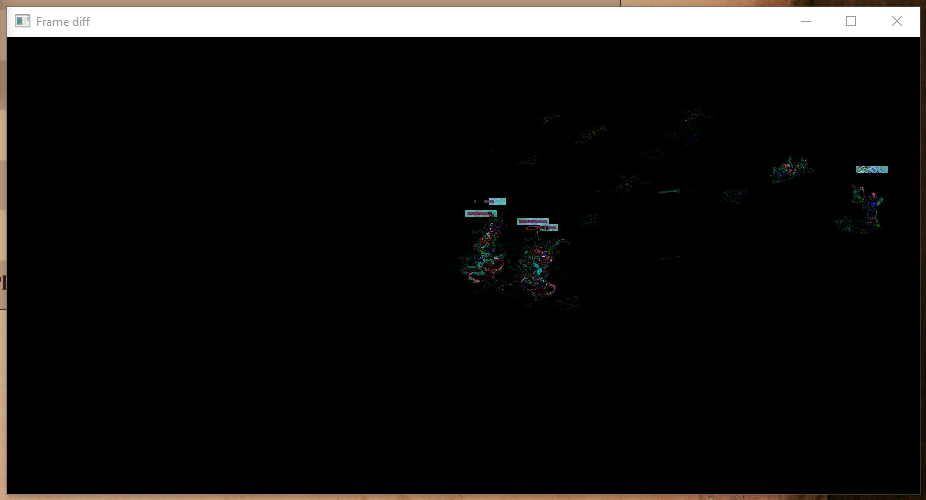
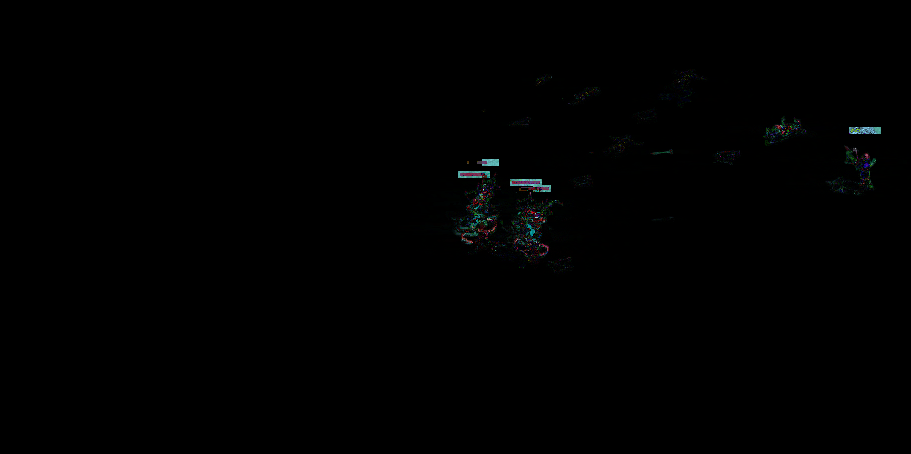
Updated images

diff --git a/_projects/3_project.md b/_projects/3_project.md
@@ -48,7 +48,7 @@ and I assigned a reward of +5 for taking the score lead, and -1 for losing it.
         </div>
     </div>
     <div class="col-sm-6 mt-3 mt-md-0">
-        {% include figure.liquid loading="eager" path="assets/img/raw_img2.png" title="example image" class="img-fluid rounded z-depth-1" %}
+        {% include figure.liquid loading="eager" path="assets/img/frame_diff2.png" title="example image" class="img-fluid rounded z-depth-1" %}
         <div class="caption">
             Processed difference frame
         </div>
